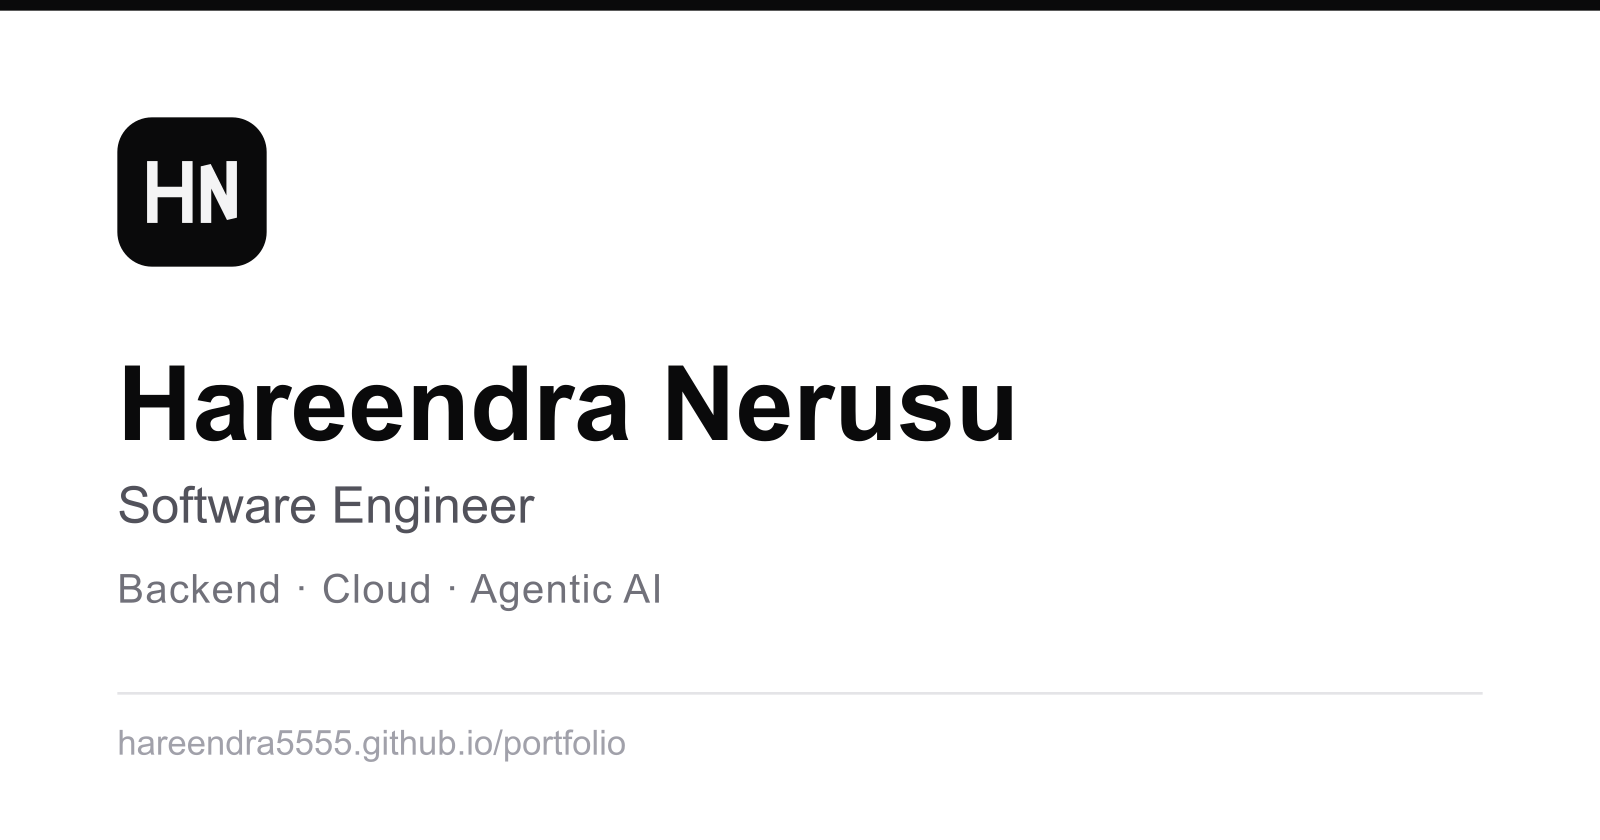
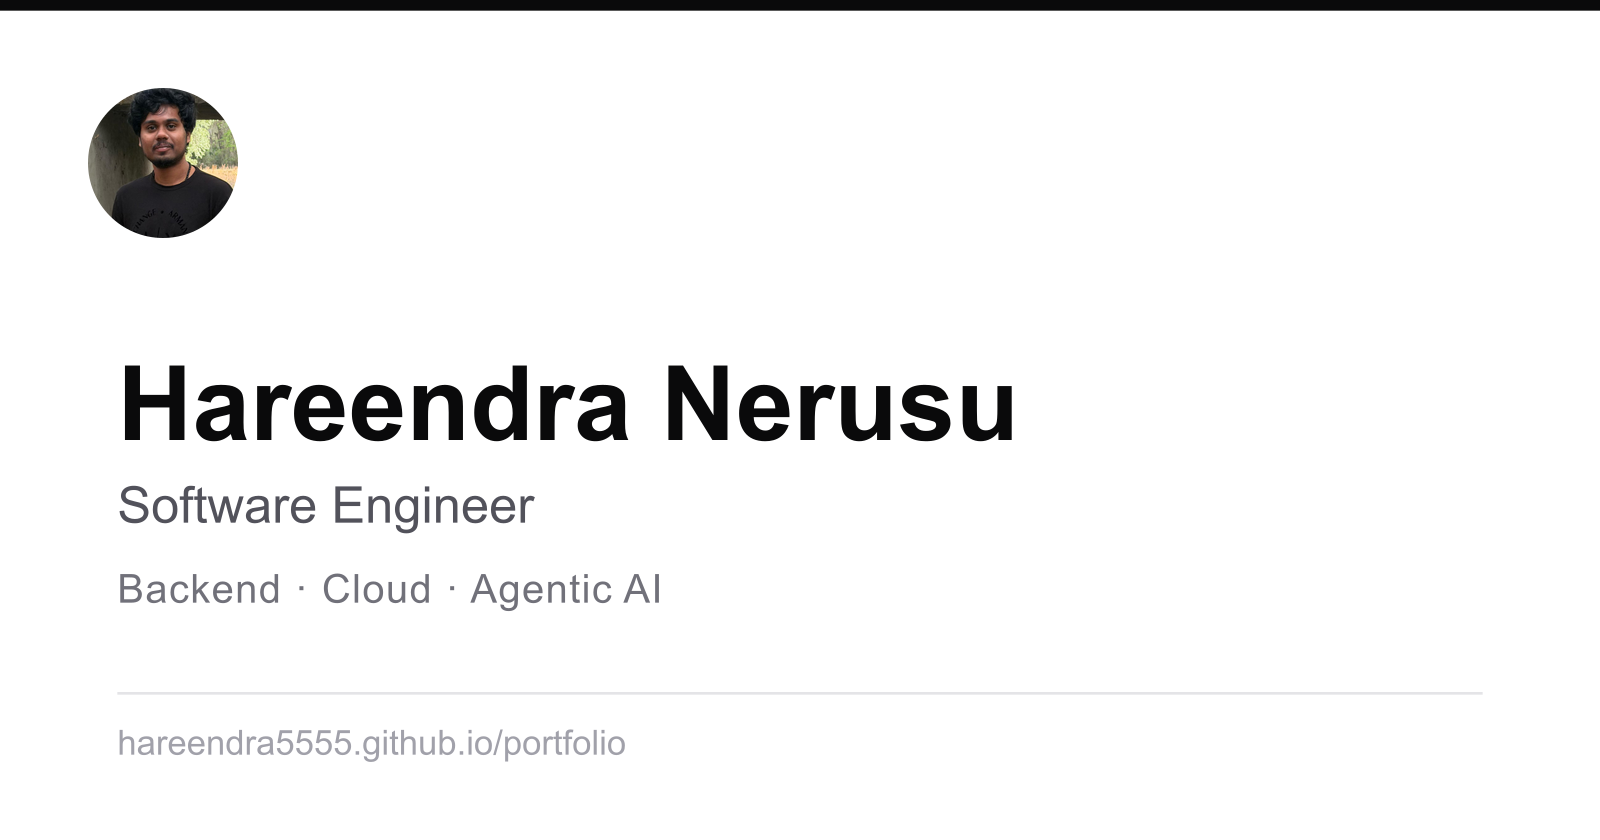
Add real project repos, rename uses to skills, use profile photo
- Projects now point at the actual repos (documind, SentinelNet,
  smartqueue, SE_GatoRides) with detail pages rewritten from their
  READMEs rather than inferred from resume bullets. Adds SentinelNet
  and SmartQueue; GatoRides credits the team and my backend role.
- Research projects are featured so the Research tab on the home page
  is not empty before View all.
- /uses is now /skills, and the list also renders on the home page
  with a View all link.
- Avatar and OG card use the profile photo instead of the HN monogram;
  the favicon keeps the monogram since a face is unreadable at 16px.

Changed region(s): [[0.0312, 0.0929, 0.1875, 0.3405]]

diff --git a/constants/projects.ts b/constants/projects.ts
@@ -1,5 +1,6 @@
 import { Icons } from "@/components/icons";
 import { LINK } from "@/constants/links";
+import { SITE } from "@/constants/site";
 import type {
   Project,
   ProjectSource,
@@ -10,7 +11,7 @@ export const HOME_FEATURED_PROJECT_COUNT = 4 as const;
 
 export const PROJECT_SOURCES = [
   {
-    icon: Icons.logo,
+    image: SITE.AUTHOR.AVATAR,
     label: "Personal",
     value: "personal",
   },
@@ -31,26 +32,58 @@ export const PROJECTS = [
       year: 2026,
     },
     description:
-      "Intelligent document Q&A — a LangGraph multi-step RAG pipeline with pgvector embeddings and FastAPI streaming, cutting hallucinations 40% across 50K+ indexed pages.",
+      "Q&A over large document collections — LangChain embeddings into pgvector, GPT-4o synthesis, and FastAPI streaming answers over SSE behind Nginx.",
     featured: true,
     links: {
-      github: `${LINK.GITHUB}?tab=repositories`,
+      github: `${LINK.GITHUB}/documind`,
     },
     slug: "documind",
     source: "personal",
-    title: "Documind",
+    title: "DocuMind",
+  },
+  {
+    category: "Machine Learning",
+    date: {
+      month: "April",
+      year: 2026,
+    },
+    description:
+      "Real-time credit card fraud detection — a PyTorch MLP trained on 1M+ transactions, served through Django REST and deployable to AWS Lambda. F1 0.964, AUC-ROC 0.991, sub-80ms p99.",
+    featured: true,
+    links: {
+      github: `${LINK.GITHUB}/SentinelNet_Fraud_Detection_System`,
+    },
+    slug: "sentinelnet",
+    source: "personal",
+    title: "SentinelNet",
   },
   {
     category: "Platform",
     date: {
-      month: "November",
+      month: "March",
+      year: 2026,
+    },
+    description:
+      "A distributed job scheduler — Spring Boot over Redis priority sorted sets with SQS persistence, a worker pool with exponential backoff, and a React dashboard on STOMP WebSockets.",
+    featured: true,
+    links: {
+      github: `${LINK.GITHUB}/smartqueue`,
+    },
+    slug: "smartqueue",
+    source: "personal",
+    title: "SmartQueue",
+  },
+  {
+    category: "Platform",
+    date: {
+      month: "April",
       year: 2025,
     },
     description:
-      "Real-time ride-sharing for campus — a stateless Go backend with geospatial MongoDB indexes and Redis pub/sub WebSocket push, holding sub-200ms location updates.",
+      "A campus ride-sharing platform built by a four-person team. I worked on the Go backend — auth, ride matching, and the ratings API.",
     featured: true,
     links: {
-      github: `${LINK.GITHUB}?tab=repositories`,
+      github: "https://github.com/DhanushUF18/SE_GatoRides",
     },
     slug: "gatorides",
     source: "personal",
@@ -64,10 +97,8 @@ export const PROJECTS = [
     },
     description:
       "API, dashboard and notifications spanning ASP.NET Core and FastAPI services, a React dashboard, Redis caching, and AWS-backed event-driven delivery.",
-    featured: true,
-    links: {
-      github: `${LINK.GITHUB}?tab=repositories`,
-    },
+    featured: false,
+    links: {},
     slug: "task-management-platform",
     source: "personal",
     title: "Task Management Platform",
@@ -80,10 +111,8 @@ export const PROJECTS = [
     },
     description:
       "An ML inference pipeline for medical imaging using PyTorch and FastAPI, with versioned datasets and model artifacts stored in AWS S3.",
-    featured: true,
-    links: {
-      github: `${LINK.GITHUB}?tab=repositories`,
-    },
+    featured: false,
+    links: {},
     slug: "medical-imaging-prediction",
     source: "personal",
     title: "Medical Imaging Prediction",
@@ -112,7 +141,7 @@ export const PROJECTS = [
     },
     description:
       "Streaming pipeline that clusters social posts into emergent events in near real time, published in IJRASET.",
-    featured: false,
+    featured: true,
     links: {
       post: "https://www.ijraset.com/research-paper/real-time-event-detection-in-social-media-streams",
       website:
@@ -129,8 +158,8 @@ export const PROJECTS = [
       year: 2023,
     },
     description:
-      "Hybrid CNN + classical-ML models for breast cancer detection, benchmarked against single-model baselines. Published in IJSREM.",
-    featured: false,
+      "Hybrid CNN and classical-ML models for breast cancer detection, benchmarked against single-model baselines. Published in IJSREM.",
+    featured: true,
     links: {
       post: "https://ijsrem.com/download/a-novel-approaches-of-detecting-breast-cancer-with-hybrid-models-techniques-and-challenges/",
       website:

diff --git a/components/skills/software-section.tsx b/components/skills/software-section.tsx
@@ -5,6 +5,7 @@ import { useState } from "react";
 import { CopyLink } from "@/components/copy-link";
 import { Section } from "@/components/ui/section";
 import { Title } from "@/components/ui/title";
+import { ViewAllButton } from "@/components/view-all-button";
 import { ViewToggle } from "@/components/view-tabs";
 import { SOFTWARE_ITEMS } from "@/constants/software";
 import type { SoftwareItem } from "@/constants/software";
@@ -25,20 +26,39 @@ const groupByCategory = (
   return grouped;
 };
 
-const SoftwareSection = () => {
+interface SoftwareSectionProps {
+  /** Heading text. The home page shows this list as "skills." */
+  title?: string;
+  copyTitle?: string;
+  sectionId?: string;
+  /** When set, a "View all" button links to the full page. */
+  viewAllHref?: string;
+  className?: string;
+}
+
+const SoftwareSection = ({
+  title = "software.",
+  copyTitle = "Software",
+  sectionId = "stack",
+  viewAllHref,
+  className,
+}: SoftwareSectionProps) => {
   const [variant, setVariant] = useState<Variant>("list");
   const grouped = groupByCategory(SOFTWARE_ITEMS);
 
   return (
-    <Section id="stack" className="delay-200 flex flex-col gap-4">
+    <Section
+      id={sectionId}
+      className={cn("delay-200 flex flex-col gap-4", className)}
+    >
       <div className="flex items-center justify-between gap-4">
         <div className="group/stack flex flex-1 items-center gap-1">
           <Title
             className="text-xl font-medium italic"
-            render={<h2>{"software."}</h2>}
+            render={<h2>{title}</h2>}
           />
           <CopyLink
-            title={"Software"}
+            title={copyTitle}
             className="hidden group-hover/stack:inline-flex"
           />
         </div>
@@ -63,6 +83,10 @@ const SoftwareSection = () => {
           />
         ))}
       </div>
+
+      {viewAllHref ? (
+        <ViewAllButton href={viewAllHref} eventName="stack" className="mx-auto" />
+      ) : null}
     </Section>
   );
 };

diff --git a/app/(app)/skills/page.tsx b/app/(app)/skills/page.tsx
@@ -1,30 +1,30 @@
 import { prefetchGlimpses } from "@/components/ui/glimpse/server";
 import { Title } from "@/components/ui/title";
-import { HardwareSection } from "@/components/uses/hardware-section";
-import { SoftwareSection } from "@/components/uses/software-section";
+import { HardwareSection } from "@/components/skills/hardware-section";
+import { SoftwareSection } from "@/components/skills/software-section";
 import { HARDWARE_ITEMS } from "@/constants/hardware";
 import { ROUTES } from "@/constants/routes";
-import { BreadcrumbJsonLd, usesBreadcrumbs } from "@/seo/json-ld";
+import { BreadcrumbJsonLd, skillsBreadcrumbs } from "@/seo/json-ld";
 import { createMetadata } from "@/seo/metadata";
 
 const DESCRIPTION =
   "The languages, frameworks and infrastructure I reach for, and the tools I keep open.";
 
 export const metadata = createMetadata({
-  canonical: ROUTES.USES,
+  canonical: ROUTES.SKILLS,
   description: DESCRIPTION,
-  title: "Uses",
+  title: "Skills",
 });
 
-const UsesPage = async () => {
+const SkillsPage = async () => {
   const hardwareLinks = HARDWARE_ITEMS.map((item) => item.href);
   const previews = await prefetchGlimpses(hardwareLinks);
 
   return (
     <>
-      <BreadcrumbJsonLd items={usesBreadcrumbs()} />
+      <BreadcrumbJsonLd items={skillsBreadcrumbs()} />
       <header className="animate-slide-in space-y-2 px-4 pt-6 pb-4">
-        <Title className="text-xl font-medium italic">{"uses."}</Title>
+        <Title className="text-xl font-medium italic">{"skills."}</Title>
         <p className="text-muted-foreground text-sm">{DESCRIPTION}</p>
       </header>
 
@@ -34,4 +34,4 @@ const UsesPage = async () => {
   );
 };
 
-export default UsesPage;
+export default SkillsPage;

diff --git a/app/(app)/page.tsx b/app/(app)/page.tsx
@@ -5,6 +5,7 @@ import { EducationSection } from "@/components/education/section";
 import { ExperienceSection } from "@/components/experience/section";
 import { ProjectSection } from "@/components/project/section";
 import { PublicationSection } from "@/components/publications/section";
+import { SoftwareSection } from "@/components/skills/software-section";
 import { ROUTES } from "@/constants/routes";
 import { BreadcrumbJsonLd } from "@/seo/json-ld";
 
@@ -15,8 +16,15 @@ const MainView = () => (
     <ProjectSection />
     <CraftSection />
     <ExperienceSection />
-    <EducationSection className="delay-500" />
-    <PublicationSection className="delay-600" />
+    <SoftwareSection
+      title="skills."
+      copyTitle="Skills"
+      sectionId="skills"
+      viewAllHref={ROUTES.SKILLS}
+      className="delay-500"
+    />
+    <EducationSection className="delay-600" />
+    <PublicationSection className="delay-700" />
     <ContactSection className="delay-700" />
   </>
 );

diff --git a/seo/json-ld.tsx b/seo/json-ld.tsx
@@ -142,9 +142,9 @@ const experiencesBreadcrumbs = (current?: BreadcrumbItem): BreadcrumbItem[] => [
   ...(current ? [current] : []),
 ];
 
-const usesBreadcrumbs = (current?: BreadcrumbItem): BreadcrumbItem[] => [
+const skillsBreadcrumbs = (current?: BreadcrumbItem): BreadcrumbItem[] => [
   HOME_BREADCRUMB,
-  { name: "Uses", path: ROUTES.USES },
+  { name: "Skills", path: ROUTES.SKILLS },
   ...(current ? [current] : []),
 ];
 
@@ -180,7 +180,7 @@ export {
   JsonLdScripts,
   PersonJsonLd,
   projectsBreadcrumbs,
-  usesBreadcrumbs,
+  skillsBreadcrumbs,
   WebsiteJsonLd,
 };
 export type { BreadcrumbItem };

diff --git a/components/skills/hardware-section.tsx b/components/skills/hardware-section.tsx
@@ -46,7 +46,7 @@ const HardwareRow = ({
         rel="noopener noreferrer"
         onClick={() =>
           trackExternalLinkClick({
-            context: "uses",
+            context: "skills",
             link_type: "hardware",
             title,
             url: href,
@@ -80,7 +80,7 @@ const HardwareRow = ({
         rel="noopener noreferrer"
         onClick={() =>
           trackExternalLinkClick({
-            context: "uses",
+            context: "skills",
             link_type: "hardware",
             title,
             url: href,

diff --git a/constants/tech-links.ts b/constants/tech-links.ts
@@ -1,4 +1,11 @@
 export const TECH_LINKS = {
+  "AWS Lambda": "https://aws.amazon.com/lambda/",
+  "AWS SQS": "https://aws.amazon.com/sqs/",
+  Django: "https://www.djangoproject.com/",
+  "Spring Boot": "https://spring.io/projects/spring-boot",
+  SVG: "https://developer.mozilla.org/en-US/docs/Web/SVG",
+  CSS: "https://developer.mozilla.org/en-US/docs/Web/CSS",
+  Motion: "https://motion.dev/",
   "ASP.NET Core": "https://dotnet.microsoft.com/apps/aspnet",
   Alembic: "https://alembic.sqlalchemy.org/",
   AWS: "https://aws.amazon.com/",

diff --git a/constants/site.ts b/constants/site.ts
@@ -9,7 +9,7 @@ const baseUrl = getBaseUrl();
 
 export const SITE = {
   AUTHOR: {
-    AVATAR: asset("/avatar.svg"),
+    AVATAR: asset("/profile.jpg"),
     FULL_NAME,
     NAME,
   },
@@ -79,9 +79,9 @@ export const NAV_GROUPS: NavGroup[] = [
         label: "crafts",
       },
       {
-        href: ROUTES.USES,
-        id: "uses",
-        label: "uses",
+        href: ROUTES.SKILLS,
+        id: "skills",
+        label: "skills",
       },
     ],
     label: "work",

diff --git a/components/experience/item.tsx b/components/experience/item.tsx
@@ -5,7 +5,7 @@ import Link from "next/link";
 import { AppLink } from "@/components/ui/app-link";
 import type { GlimpseData } from "@/components/ui/glimpse/types";
 import { Title } from "@/components/ui/title";
-import { TechStack } from "@/components/uses/tech-stack";
+import { TechStack } from "@/components/skills/tech-stack";
 import { ROUTES } from "@/constants/routes";
 import { trackExperienceDetailClick } from "@/lib/events";
 import { cn } from "@/lib/utils";

diff --git a/lib/nav.ts b/lib/nav.ts
@@ -7,7 +7,7 @@ const SECTION_ROUTES: { id: SectionId; route: string }[] = [
   { id: "projects", route: ROUTES.PROJECTS },
   { id: "crafts", route: ROUTES.CRAFTS },
   { id: "experiences", route: ROUTES.EXPERIENCES },
-  { id: "uses", route: ROUTES.USES },
+  { id: "skills", route: ROUTES.SKILLS },
 ];
 
 export const isNavGroupActive = (

diff --git a/constants/hardware.ts b/constants/hardware.ts
@@ -5,7 +5,7 @@ export interface HardwareItem {
   href: string;
 }
 
-// Nothing here yet — the `hardware.` block on /uses hides itself while this
+// Nothing here yet — the `hardware.` block on /skills hides itself while this
 // list is empty. Add your own machine, display and peripherals, e.g.:
 //
 // {

diff --git a/app/sitemap.ts b/app/sitemap.ts
@@ -38,7 +38,7 @@ export default function sitemap(): MetadataRoute.Sitemap {
     ROUTES.PROJECTS,
     ROUTES.CRAFTS,
     ROUTES.EXPERIENCES,
-    ROUTES.USES,
+    ROUTES.SKILLS,
     ROUTES.CONTACT,
   ].map((route) => ({
     changeFrequency: "monthly" as const,
